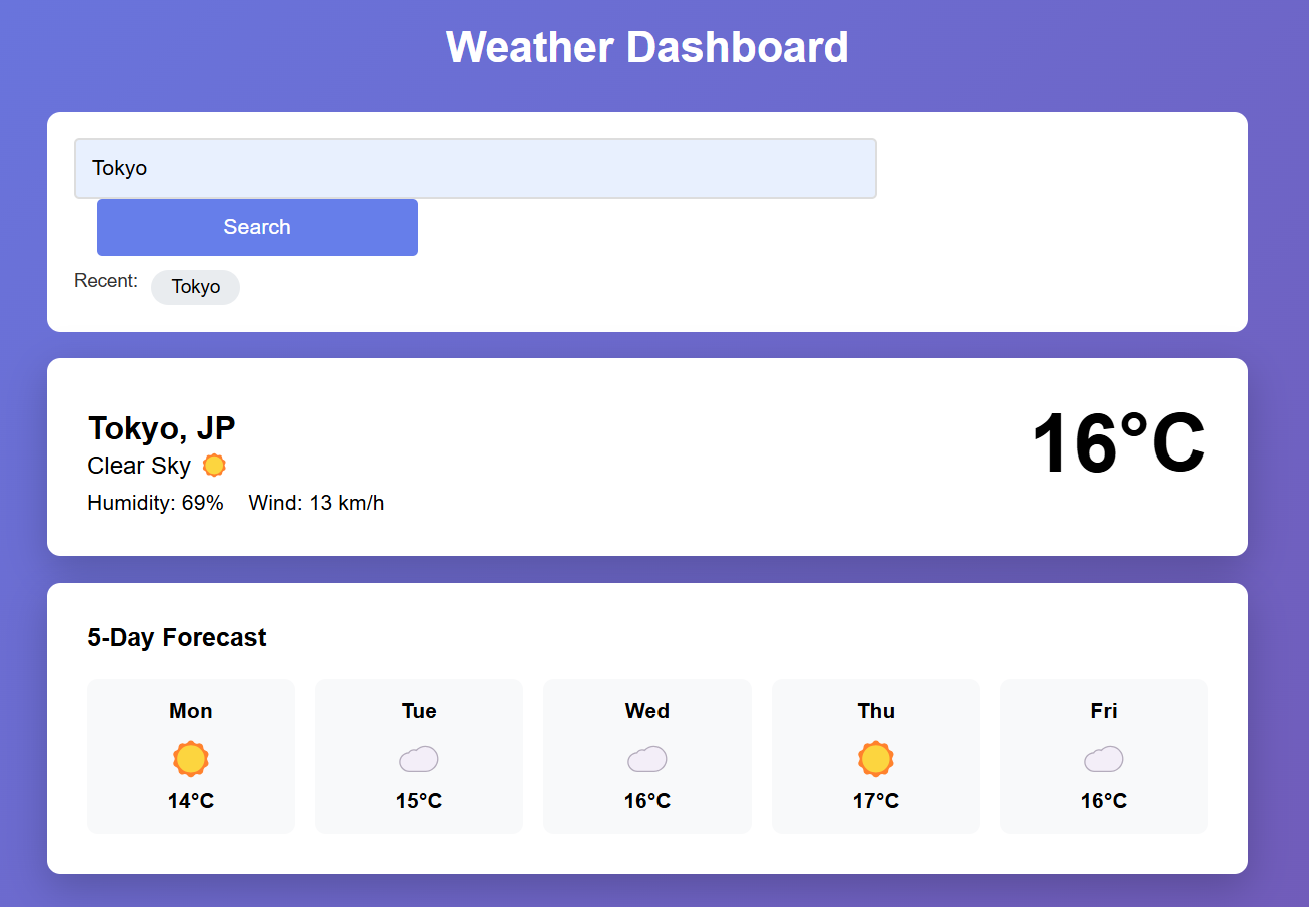
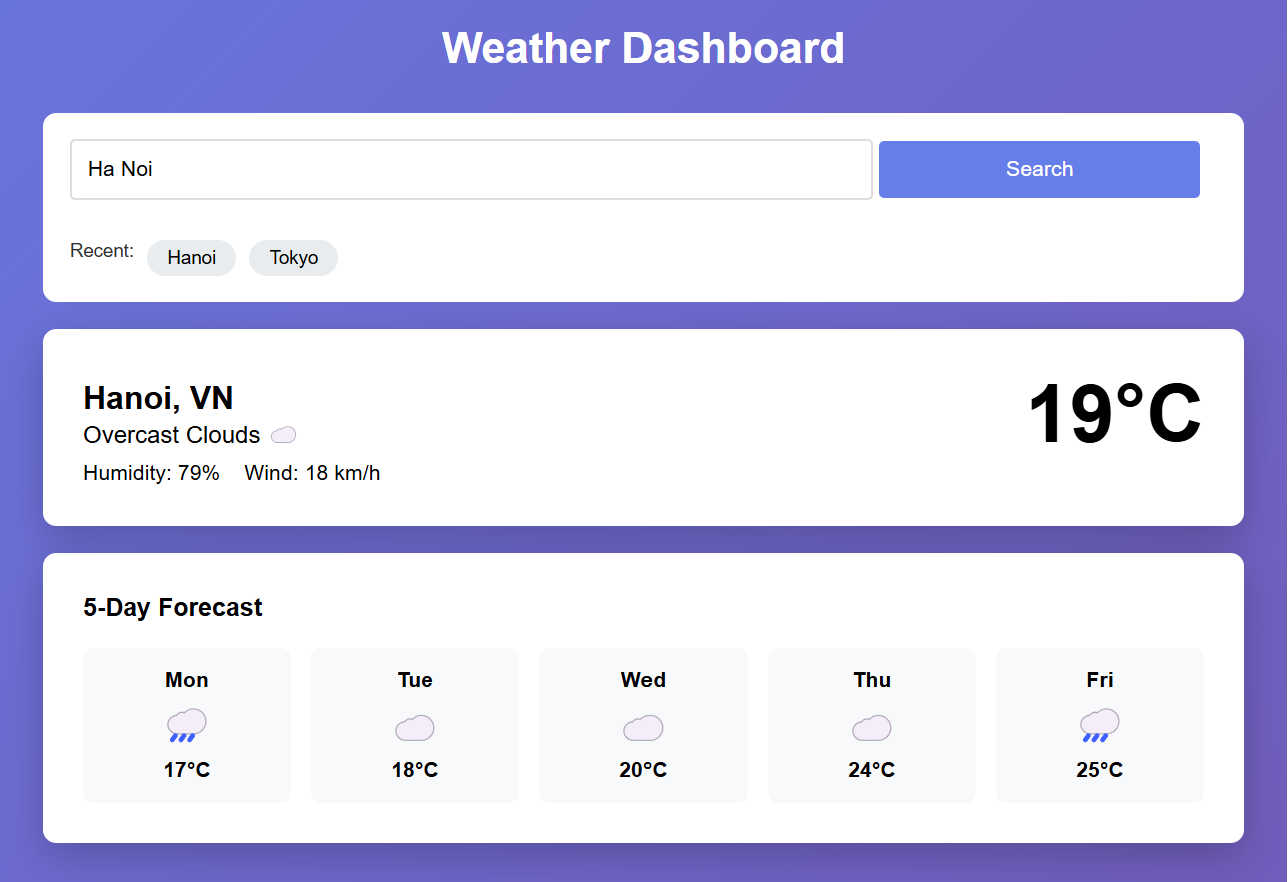
Thay đổi UI của weather.html

diff --git a/Part2/weather.html b/Part2/weather.html
@@ -35,6 +35,7 @@
             border: 2px solid #ddd;
             border-radius: 4px;
             font-size: 16px;
+            margin-bottom: 20px;
         }
         
         .search-box button {
@@ -46,7 +47,6 @@
             border-radius: 4px;
             cursor: pointer;
             font-size: 16px;
-            margin-left: 2%;
         }
         
         .weather-card {
